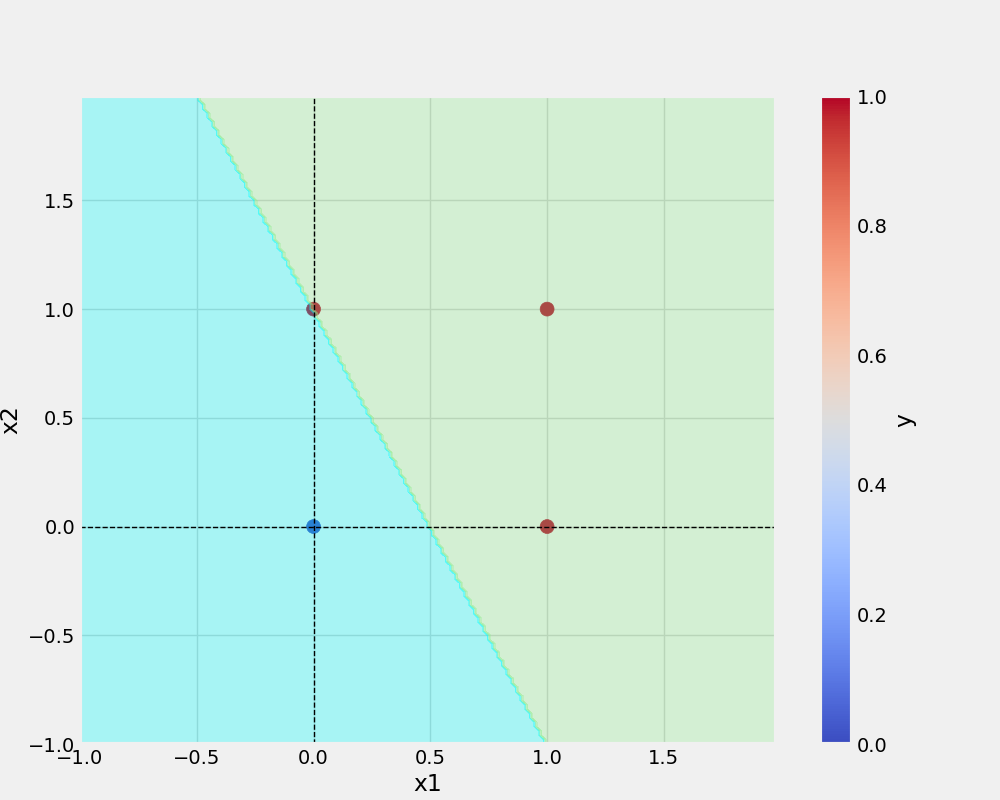
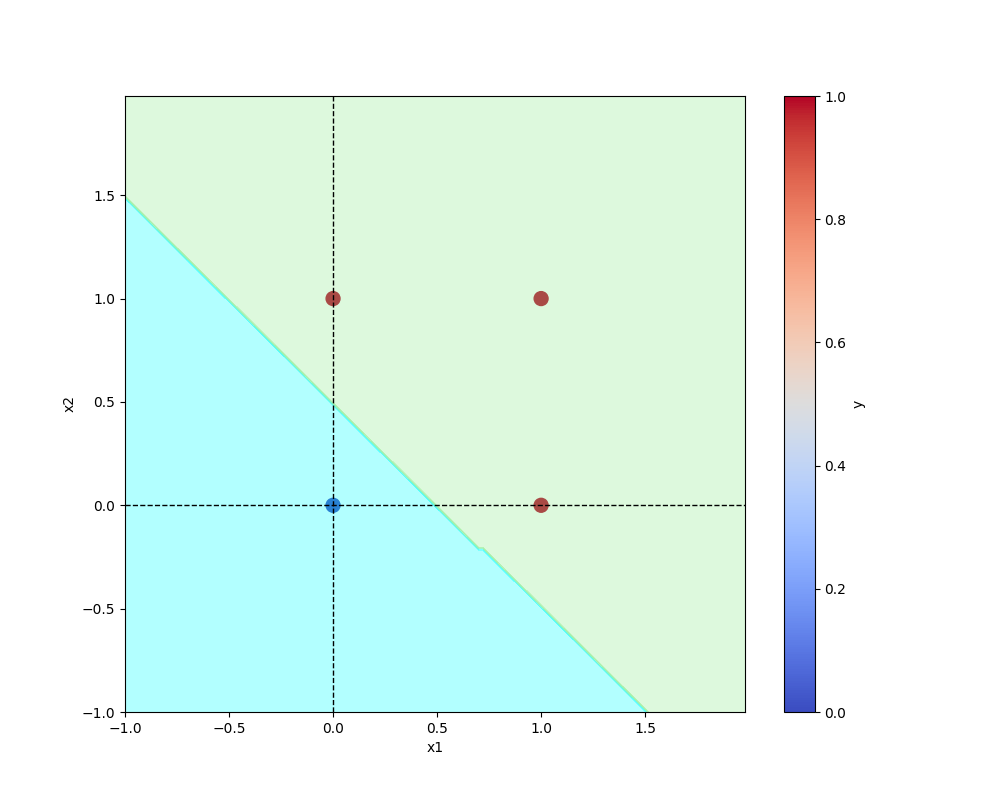
models and plotscreated

Changed region(s): [[0.0, 0.0938, 0.899, 1.0], [0.527, 0.3438, 0.558, 0.4062], [0.899, 0.5, 0.93, 0.5312]]

diff --git a/utils/model.py b/utils/model.py
@@ -1,0 +1,66 @@
+import numpy as np 
+import os
+import joblib
+
+class Perceptron:
+    def __init__(self,eta:float=None,epochs:int=None):
+        self.weights = np.random.randn(3) *1e-4
+        training = (eta is not None) and (epochs is not None)
+        if training:
+            print(f"initial weights before training:\n{self.weights}")
+        self.eta = eta
+        self.epochs = epochs
+        
+    def _z_outcome(self,inputs,weights):
+        return np.dot(inputs,weights)
+    
+    def activation_function(self,z):
+        return  np.where(z > 0,1,0)
+    
+    def fit(self,X,y):
+        self.X=X
+        self.y=y
+        
+        X_with_bias = np.c_[self.X,-np.ones((len(self.X),1))]
+        print(f"X with bias:\n{X_with_bias}")
+        
+        for epoch in range(self.epochs):
+            print("--"*10)
+            print(f"for Epoch>>{epoch}")
+            print("--"*10)
+            
+            z = self._z_outcome(X_with_bias,self.weights)
+            y_hat = self.activation_function(z)
+            print(f"predicted value after forward pass: \n(y_hat)")
+            
+            self.error = self.y - y_hat
+            print(f"error: \n{self.error}")
+            
+            self.weights = self.weights + self.eta *np.dot(X_with_bias.T, self.error)
+            print(f"updated weights after epoch: {epoch + 1}/{self.epochs}: \n{self.weights}")
+                
+    def predict(self,X):
+        X_without_bias = np.c_[X,-np.ones((len(X),1))]
+        z = self._z_outcome(X_without_bias,self.weights)
+        return self.activation_function(z)
+    
+    def total_loss(self):
+        total_loss = np.sum(self.error)
+        print(f"\nTotal loss: {total_loss}\n")
+        return total_loss
+    
+    def _create_dir_return_path(self,model_dir,filename):
+        os.makedirs(model_dir, exist_ok=True)
+        return os.path.join(model_dir,filename)
+    
+    def save(self,filename,model_dir=None):
+        if model_dir is not None:
+            model_file_path = self._create_dir_return_path(model_dir,filename)
+            joblib.dump(self,model_file_path)
+        else:
+            model_file_path = self._create_dir_return_path("model",filename)
+            joblib.dump(self,model_file_path)
+    
+    def load(self,filepath):
+        return joblib.load(filepath)
+    

diff --git a/utils/all_utils.py b/utils/all_utils.py
@@ -1,0 +1,52 @@
+import os
+import matplotlib.pyplot as plt
+from matplotlib.colors import ListedColormap
+import numpy as np
+
+def prepare_data(df,target_col="y"):
+    X = df.drop(target_col,axis=1)
+    
+    y = df[target_col]
+    
+    return X,y
+
+def save_plot(df, model, filename="plot.png", plot_dir="plots"):
+    def _create_base_plot(df):
+        df.plot(kind="scatter", x="x1", y="x2", c="y", s=100, cmap="coolwarm")
+        plt.axhline(y=0, color="black", linestyle="--", linewidth=1)
+        plt.axvline(x=0, color="black", linestyle="--", linewidth=1)
+        
+        figure = plt.gcf()
+        figure.set_size_inches(10, 8)
+    
+    def _plot_decision_regions(X, y, classifier, resolution=0.02):
+        colors = ("cyan", "lightgreen")
+        cmap = ListedColormap(colors)
+        
+        X = X.values # as an array
+        x1 = X[:, 0]
+        x2 = X[:, 1]
+        
+        x1_min, x1_max = x1.min() - 1, x1.max() + 1 
+        x2_min, x2_max = x2.min() - 1, x2.max() + 1
+        
+        xx1, xx2 = np.meshgrid(np.arange(x1_min, x1_max, resolution),
+                               np.arange(x2_min, x2_max, resolution)
+                              )
+        y_hat = classifier.predict(np.array([xx1.ravel(), xx2.ravel()]).T)
+        y_hat = y_hat.reshape(xx1.shape)
+        
+        plt.contourf(xx1, xx2, y_hat, alpha=0.3, cmap=cmap)
+        plt.xlim(xx1.min(), xx1.max())
+        plt.ylim(xx2.min(), xx2.max())
+        
+        plt.plot()
+        
+    X, y = prepare_data(df)
+    
+    _create_base_plot(df)
+    _plot_decision_regions(X, y, model)
+    
+    os.makedirs(plot_dir, exist_ok=True)
+    plot_path = os.path.join(plot_dir, filename)
+    plt.savefig(plot_path)

diff --git a/and.py b/and.py
@@ -1,0 +1,26 @@
+from utils.all_utils import prepare_data,save_plot
+from utils.model import Perceptron
+import pandas as pd
+
+def main(data,modelName,plotName,eta,epochs):
+    df_AND = pd.DataFrame(AND)
+
+    X,y = prepare_data(df_AND)
+
+    model_and = Perceptron(eta=epochs,epochs=epochs)
+    model_and.fit(X,y)
+    _ = model_and.total_loss()
+
+    model_and.save(filename=modelName,model_dir="new_model_and")
+    save_plot(df_AND,model_and,filename=plotName)
+    
+if __name__ == '__main__':
+    AND = {
+        "x1":[0,0,1,1],
+        "x2":[0,1,0,1],
+        "y":[0,0,0,1]
+    }
+
+    ETA = 0.1
+    EPOCHS =10
+    main(data=AND,modelName="and.model",plotName="new_and.png",eta=ETA,epochs=EPOCHS)

diff --git a/xor.py b/xor.py
@@ -1,0 +1,25 @@
+from utils.all_utils import prepare_data,save_plot
+from utils.model import Perceptron
+import pandas as pd
+
+def main(data,modelName,plotName,eta,epochs):
+    df_XOR = pd.DataFrame(XOR)
+
+    X,y = prepare_data(df_XOR)
+
+    model_xor = Perceptron(eta=eta,epochs=epochs)
+    model_xor.fit(X,y)
+    _ = model_xor.total_loss()
+
+    model_xor.save(filename=modelName,model_dir="new_model_xor")
+    save_plot(df_XOR,model_xor,filename=plotName)
+
+if __name__ == '__main__':
+    XOR = {
+        "x1":[0,0,1,1],
+        "x2":[0,1,0,1],
+        "y":[0,1,1,0]
+    }
+    ETA = 0.1
+    EPOCHS =10
+    main(data=XOR,modelName="xor.model",plotName="new_xor.png",eta=ETA,epochs=EPOCHS)

diff --git a/or.py b/or.py
@@ -1,0 +1,26 @@
+from utils.all_utils import prepare_data,save_plot
+from utils.model import Perceptron
+import pandas as pd
+
+def main(data,modelName,plotName,eta,epochs):
+    df_OR = pd.DataFrame(OR)
+
+    X,y = prepare_data(df_OR)
+
+    model_or = Perceptron(eta=eta,epochs=epochs)
+    model_or.fit(X,y)
+    _ = model_or.total_loss()
+
+    model_or.save(filename=modelName,model_dir="new_model_or")
+    save_plot(df_OR,model_or,filename=plotName)
+
+if __name__ == '__main__':
+    OR = {
+        "x1":[0,0,1,1],
+        "x2":[0,1,0,1],
+        "y":[0,1,1,1]
+    }
+    ETA = 0.1
+    EPOCHS = 10
+    main(data=OR,modelName="or.model",plotName="new_or.png",eta=ETA,epochs=EPOCHS)
+    
